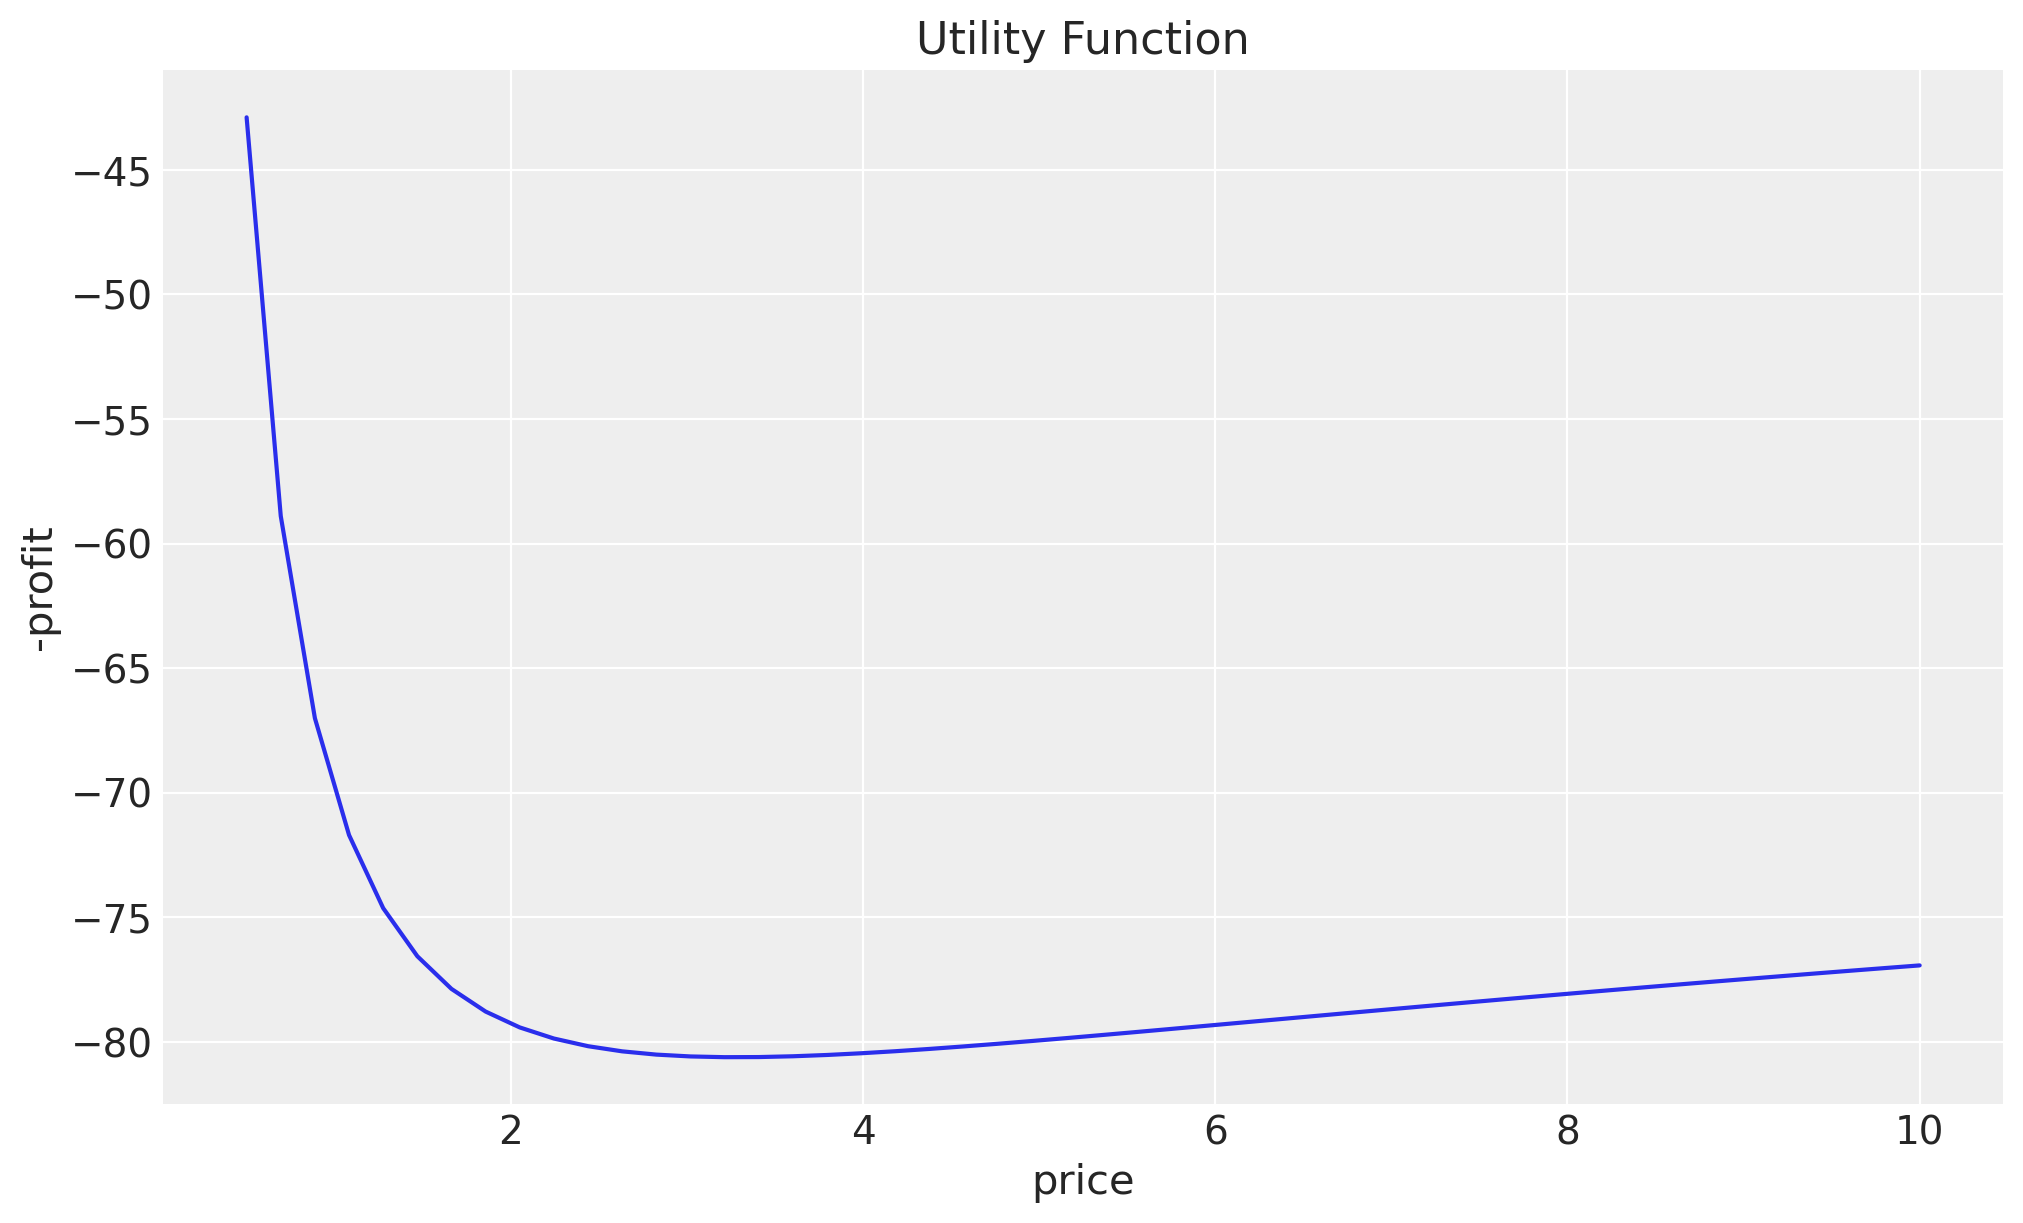
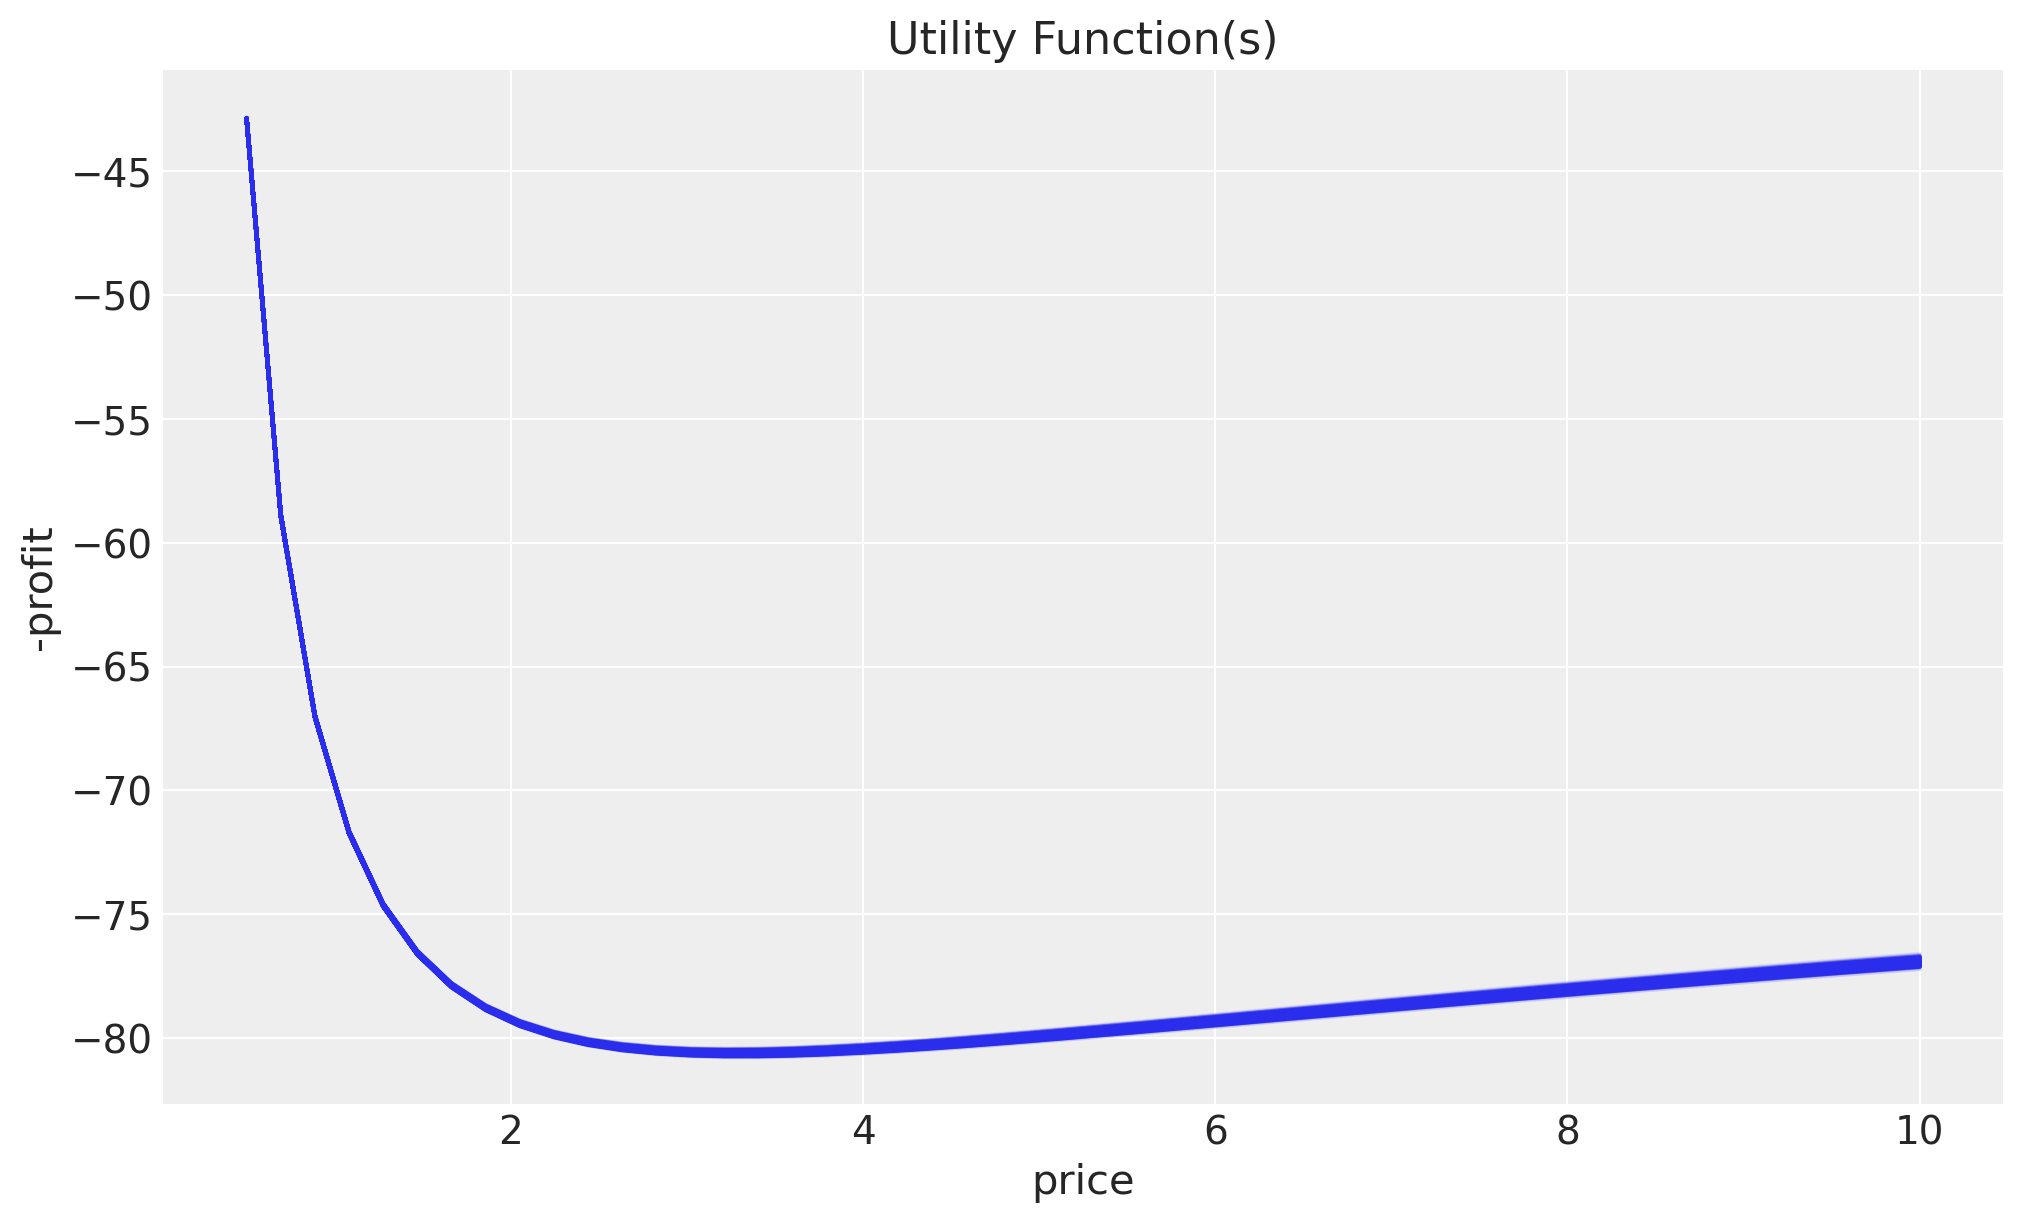
update

diff --git a/bayesian_decision_theory_workflow_numpyro/index.html b/bayesian_decision_theory_workflow_numpyro/index.html
@@ -76,7 +76,7 @@
 
   <article class="article">
     
-    <span class="article-duration">5 min read</span>
+    <span class="article-duration">6 min read</span>
     
 
     <h1 class="article-title">A Bayesian Decision Theory Workflow: Port to NumPyro</h1>
@@ -90,7 +90,7 @@
 
 
 <p>In this notebook I explore the <em>Bayesian Decision Theory Workflow</em> described in the amazing blog post <a href="https://daniel-saunders-phil.github.io/imagination_machine/posts/a-bayesian-decision-theory-workflow/">A Bayesian Decision Theory Workflow</a> by <a href="https://github.com/daniel-saunders-phil">Daniel Saunders</a>. It is a great resource to understand how to use Bayesian methods for optimization problems. In the original post, Daniel explains the theory and key concepts using <a href="https://www.pymc.io/">PyMC</a> and its computational backend <a href="https://pytensor.readthedocs.io/en/latest/">PyTensor</a>. He does a remarkable job presenting powerful PyTensor features to manipulate and operate with symbolic computational graphs. I can only recommend you to read it!</p>
-<p>As part of the learning exercise, I ported the workflow to <a href="https://github.com/pyro-ppl/numpyro">NumPyro</a> and <a href="https://github.com/google/jax">JAX</a>.</p>
+<p>As part of the learning exercise, I ported the workflow to <a href="https://github.com/pyro-ppl/numpyro">Numpyro</a> and <a href="https://github.com/google/jax">JAX</a>.</p>
 <div id="prepare-notebook" class="section level2">
 <h2>Prepare Notebook</h2>
 <pre class="python"><code>from functools import partial
@@ -216,9 +216,8 @@ ax.set(title=&quot;Simulated Data&quot;, xlabel=&quot;price&quot;, ylabel=&quot;
 nuts_kernel = NUTS(conditioned_model)
 mcmc = MCMC(nuts_kernel, num_warmup=1_000, num_samples=1_000, num_chains=4)
 rng_key, rng_subkey = random.split(rng_key)
-mcmc.run(rng_subkey, price)
-
-idata = az.from_numpyro(
+mcmc.run(rng_subkey, price)</code></pre>
+<pre class="python"><code>idata = az.from_numpyro(
     mcmc,
     coords={&quot;idx&quot;: range(len(price))},
     dims={&quot;mu&quot;: [&quot;idx&quot;], &quot;sales&quot;: [&quot;idx&quot;]},
@@ -243,51 +242,64 @@ plt.gcf().suptitle(&quot;Trace Plot&quot;);</code></pre>
 <pre class="python"><code># We are interested in the expected sales, i.e. the variable mu.
 predictive = Predictive(model, mcmc.get_samples(), return_sites=[&quot;mu&quot;])
 
-
-# We want to compute the expected sales as a function of the price.
-def predictive_mean(
+# Predict sales as a function of the price.
+# Return all the posterior samples.
+def predictive_mu(
     rng_key: UInt[Array, &quot;2&quot;], price: Float[Array, &quot; 1&quot;]
-) -&gt; Float[Array, &quot;&quot;]:
-    return jnp.mean(predictive(rng_key, price)[&quot;mu&quot;])
-
+) -&gt; Float[Array, &quot;samples 1&quot;]:
+    return predictive(rng_key, price)[&quot;mu&quot;]
 
 # We now seed and JIT the function.
 rng_key, rng_subkey = random.split(rng_key)
-predictive_mean_jit = jax.jit(partial(predictive_mean, rng_subkey))</code></pre>
-<p>We can now compute the utility function explicitly:</p>
-<pre class="python"><code>def objective(price: Float[Array, &quot; 1&quot;], cost: float = 0.3) -&gt; Float[Array, &quot;&quot;]:
+predictive_jit = jax.jit(partial(predictive_mu, rng_subkey))</code></pre>
+<p>We can now compute the utility function(s) explicitly:</p>
+<pre class="python"><code>def objective(
+    price: Float[Array, &quot; 1&quot;], cost: float = 0.3
+) -&gt; Float[Array, &quot;samples 1&quot;]:
     unit_profit = price - cost
-    mu = predictive_mean_jit(price)
-    # We need to return a scalar.
+    mu = predictive_jit(price)
     # We add a minus sign as we will be using a minimizer.
-    return (-1 * unit_profit * mu).reshape(())
+    return -1 * unit_profit * mu
 
 
-# Let&#39;s plot the utility function.
+# Let&#39;s plot the utility function(s).
+plot_profit = jax.vmap(objective)(price.reshape(-1, 1))
 fig, ax = plt.subplots()
-ax.plot(price, jax.vmap(objective)(price.reshape(-1, 1)))
-ax.set(title=&quot;Utility Function&quot;, xlabel=&quot;price&quot;, ylabel=&quot;-profit&quot;);</code></pre>
+# Plot 1_000 lines
+for i in range(1_000):
+    ax.plot(price, plot_profit[:, i, :], color=&quot;C0&quot;, alpha=0.1)
+ax.set(title=&quot;Utility Function(s)&quot;, xlabel=&quot;price&quot;, ylabel=&quot;-profit&quot;);</code></pre>
 <center>
 <img src="../images/bayesian_decision_theory_workflow_numpyro_files/bayesian_decision_theory_workflow_numpyro_20_0.png" style="width: 900px;"/>
 </center>
-<p>As expected from the analytical solution, the maximum profit is achieved at a price of around <span class="math inline">\(3.0\)</span>. We want to use this utility function to find the precise optimal price.</p>
+<p>As expected from the analytical solution, the maximum profit is achieved at a price of around <span class="math inline">\(3.0\)</span>. We want to use this utility function(s) to find the precise optimal price. For that purpose, we need to take the expectation of the utility functions to get a scalar value.</p>
+<pre class="python"><code>def expected_objective(
+    price: Float[Array, &quot; 1&quot;], cost: float = 0.3
+) -&gt; Float[Array, &quot;&quot;]:
+    return jnp.mean(objective(price, cost)).reshape(())</code></pre>
 </div>
 <div id="optimization" class="section level2">
 <h2>Optimization</h2>
 <p>We can use <a href="https://jax.readthedocs.io/en/latest/jax.scipy.html#jax.scipy.optimize.minimize"><code>jax.scipy.optimize.minimize</code></a> to find the maximum of the utility function.</p>
-<pre class="python"><code>result = jax.scipy.optimize.minimize(objective, x0=jnp.array([1.0]), method=&quot;BFGS&quot;)
+<pre class="python"><code>result = jax.scipy.optimize.minimize(
+    expected_objective, x0=jnp.array([1.0]), method=&quot;BFGS&quot;
+)
 
 result.x</code></pre>
-<pre><code>Array([3.2792895], dtype=float32)</code></pre>
+<pre><code>Array([3.279405], dtype=float32)</code></pre>
 <p>The optimal price is very close to our analytical solution!</p>
-<p>Finally, we can plot the utility function and the optimal price.</p>
-<pre class="python"><code>fig, ax = plt.subplots()
-ax.plot(price, jax.vmap(objective)(price.reshape(-1, 1)))
-ax.scatter(result.x, objective(result.x), color=&quot;C3&quot;, s=150)
-ax.set(title=&quot;Utility Function and Optimal Price&quot;, xlabel=&quot;price&quot;, ylabel=&quot;-profit&quot;);</code></pre>
+<p>Finally, we can plot the utility function(s) and the optimal price.</p>
+<pre class="python"><code>plot_profit = jax.vmap(objective)(price.reshape(-1, 1))
+fig, ax = plt.subplots()
+# Plot 1_000 lines
+for i in range(1_000):
+    ax.plot(price, plot_profit[:, i, :], color=&quot;C0&quot;, alpha=0.1)
+ax.scatter(result.x, expected_objective(result.x), color=&quot;C3&quot;, s=150)
+ax.set(title=&quot;Utility Function(s) and Optimal Price&quot;, xlabel=&quot;price&quot;, ylabel=&quot;-profit&quot;);</code></pre>
 <center>
-<img src="../images/bayesian_decision_theory_workflow_numpyro_files/bayesian_decision_theory_workflow_numpyro_25_0.png" style="width: 900px;"/>
+<img src="../images/bayesian_decision_theory_workflow_numpyro_files/bayesian_decision_theory_workflow_numpyro_26_0.png" style="width: 900px;"/>
 </center>
+<p><strong>Acknowledgements:</strong> I want to thank <a href="https://github.com/hstorm">Dr. Hugo Storm</a> for suggestions on improving the first version of this notebook.</p>
 </div>
 
     </div>